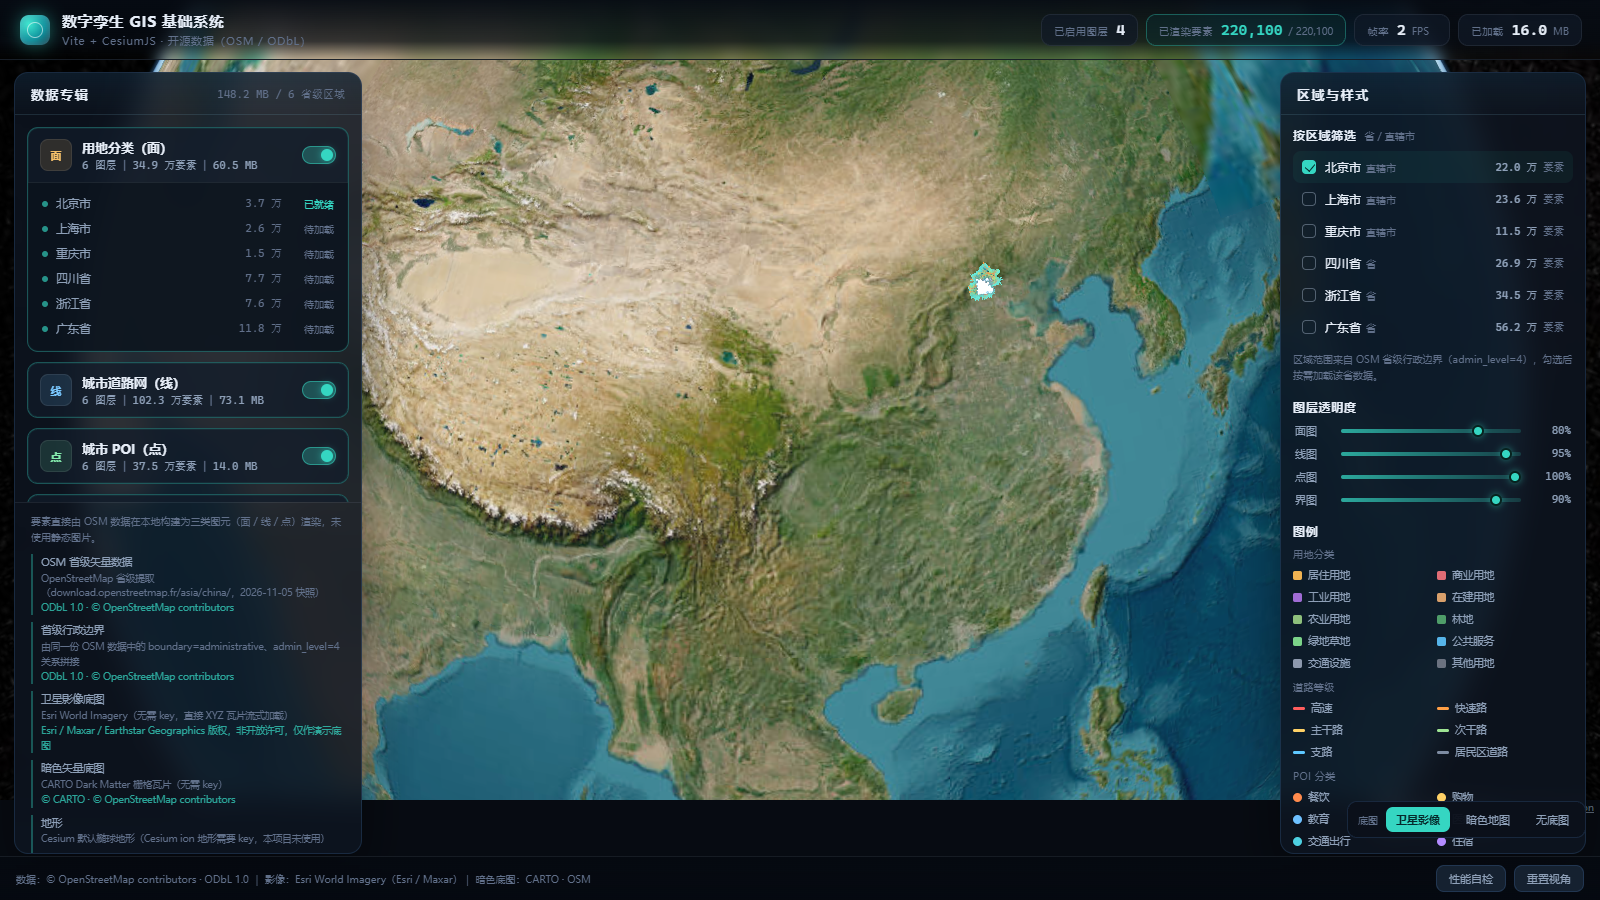
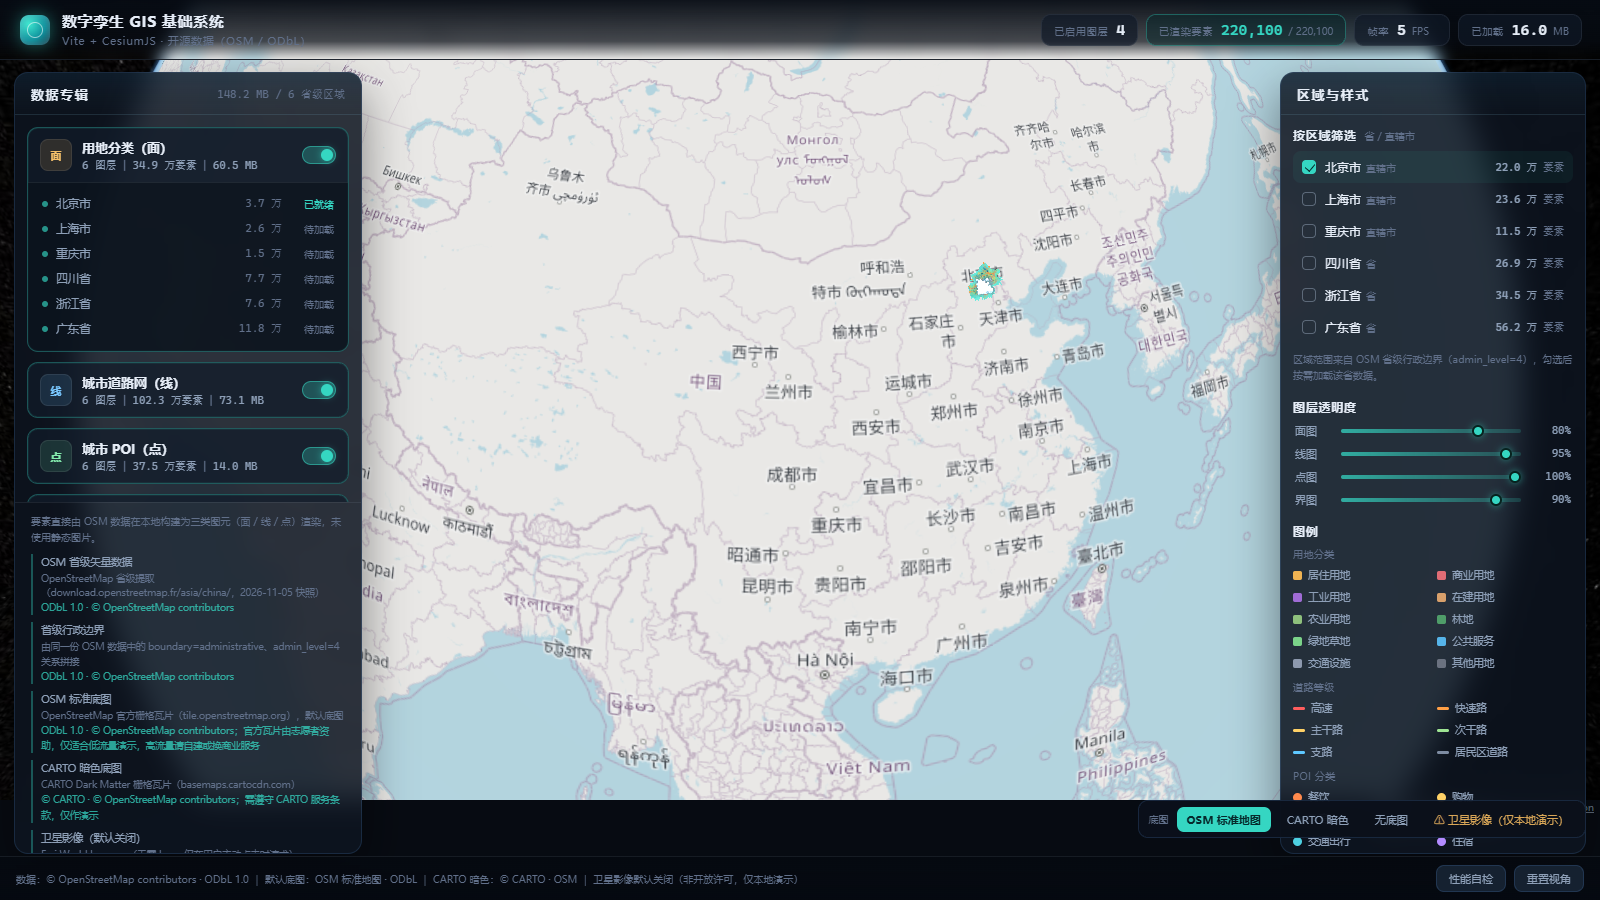
底图改为开放授权源并新增 GitHub Pages 部署
- 默认底图改为 OSM 官方栅格瓦片（ODbL，带署名）；CARTO 暗色可选
- Esri 卫星影像改为按需惰性加载，默认不创建、不发起请求，界面标注仅本地演示
- 新增 .github/workflows/pages.yml：CI 从 Release 拉数据后构建并发布到 Pages
- README 补充 Pages 部署说明、子路径 base 要点、Pages 体积限制对照

diff --git a/src/main.js b/src/main.js
@@ -22,16 +22,33 @@ function toast(msg, ms = 2200) {
 }
 
 // ---------------------------------------------------------------- 三维场景
-const esri = new Cesium.UrlTemplateImageryProvider({
-  url: 'https://server.arcgisonline.com/ArcGIS/rest/services/World_Imagery/MapServer/tile/{z}/{y}/{x}',
-  maximumLevel: 18,
-  credit: new Cesium.Credit('Esri, Maxar, Earthstar Geographics', false),
+// 默认底图：OpenStreetMap 官方栅格瓦片（ODbL，署名 © OpenStreetMap contributors）。
+// 官方瓦片由志愿者资助，仅适合低流量演示；高流量请自建瓦片或换用商业服务。
+const osm = new Cesium.UrlTemplateImageryProvider({
+  url: 'https://tile.openstreetmap.org/{z}/{x}/{y}.png',
+  maximumLevel: 19,
+  credit: new Cesium.Credit('© OpenStreetMap contributors', false),
 });
 const carto = new Cesium.UrlTemplateImageryProvider({
   url: 'https://basemaps.cartocdn.com/dark_all/{z}/{x}/{y}.png',
   maximumLevel: 19,
   credit: new Cesium.Credit('© CARTO · © OpenStreetMap contributors', false),
 });
+
+/**
+ * Esri World Imagery 不是开放许可，只在用户主动点击时按需创建，
+ * 公开部署默认从不发起请求。
+ */
+let esriLayer = null;
+function ensureEsriLayer() {
+  if (esriLayer) return esriLayer;
+  esriLayer = viewer.imageryLayers.addImageryProvider(new Cesium.UrlTemplateImageryProvider({
+    url: 'https://server.arcgisonline.com/ArcGIS/rest/services/World_Imagery/MapServer/tile/{z}/{y}/{x}',
+    maximumLevel: 18,
+    credit: new Cesium.Credit('Esri, Maxar, Earthstar Geographics', false),
+  }));
+  return esriLayer;
+}
 
 const viewer = new Cesium.Viewer('cesiumContainer', {
   baseLayer: false,
@@ -54,7 +71,7 @@ viewer.scene.globe.showGroundAtmosphere = true;
 viewer.scene.fog.enabled = false;
 viewer.scene.globe.enableLighting = false;
 
-const esriLayer = viewer.imageryLayers.addImageryProvider(esri);
+const osmLayer = viewer.imageryLayers.addImageryProvider(osm);
 const cartoLayer = viewer.imageryLayers.addImageryProvider(carto);
 cartoLayer.show = false;
 
@@ -440,8 +457,14 @@ document.querySelectorAll('#basemap-bar button').forEach((btn) => {
   btn.addEventListener('click', () => {
     document.querySelectorAll('#basemap-bar button').forEach((b) => b.classList.toggle('active', b === btn));
     const mode = btn.dataset.basemap;
-    esriLayer.show = mode === 'esri';
+    osmLayer.show = mode === 'osm';
     cartoLayer.show = mode === 'carto';
+    if (mode === 'esri') {
+      ensureEsriLayer().show = true;
+      toast('Esri 影像为非开放许可，仅限本地/个人演示，请勿用于公开部署');
+    } else if (esriLayer) {
+      esriLayer.show = false;
+    }
     viewer.scene.globe.baseColor = new Cesium.Color(0.035, 0.055, 0.08, 1);
     if (mode === 'none') {
       viewer.scene.globe.baseColor = new Cesium.Color(0.045, 0.075, 0.085, 1);

diff --git a/src/config.js b/src/config.js
@@ -81,14 +81,19 @@ export const SOURCES = [
     license: 'ODbL 1.0 · © OpenStreetMap contributors',
   },
   {
-    name: '卫星影像底图',
-    detail: 'Esri World Imagery（无需 key，直接 XYZ 瓦片流式加载）',
-    license: 'Esri / Maxar / Earthstar Geographics 版权，非开放许可，仅作演示底图',
+    name: 'OSM 标准底图',
+    detail: 'OpenStreetMap 官方栅格瓦片（tile.openstreetmap.org），默认底图',
+    license: 'ODbL 1.0 · © OpenStreetMap contributors；官方瓦片由志愿者资助，仅适合低流量演示，高流量请自建或换商业服务',
   },
   {
-    name: '暗色矢量底图',
-    detail: 'CARTO Dark Matter 栅格瓦片（无需 key）',
-    license: '© CARTO · © OpenStreetMap contributors',
+    name: 'CARTO 暗色底图',
+    detail: 'CARTO Dark Matter 栅格瓦片（basemaps.cartocdn.com）',
+    license: '© CARTO · © OpenStreetMap contributors；需遵守 CARTO 服务条款，仅作演示',
+  },
+  {
+    name: '卫星影像（默认关闭）',
+    detail: 'Esri World Imagery（无需 key，仅在用户主动点击时请求）',
+    license: 'Esri / Maxar / Earthstar Geographics 版权，非开放许可，仅限本地/个人演示，公开部署请勿启用',
   },
   {
     name: '地形',

diff --git a/index.html b/index.html
@@ -80,14 +80,15 @@
 
 <div id="basemap-bar">
   <span class="bar-label">底图</span>
-  <button data-basemap="esri" class="active">卫星影像</button>
-  <button data-basemap="carto">暗色地图</button>
+  <button data-basemap="osm" class="active">OSM 标准地图</button>
+  <button data-basemap="carto">CARTO 暗色</button>
   <button data-basemap="none">无底图</button>
+  <button data-basemap="esri" class="warn" title="Esri World Imagery 非开放许可，仅限本地/个人演示；公开部署请勿启用">卫星影像（仅本地演示）</button>
 </div>
 
 <footer id="statusbar">
   <div class="src">
-    数据：© OpenStreetMap contributors · ODbL 1.0 ｜ 影像：Esri World Imagery（Esri / Maxar）｜ 暗色底图：CARTO · OSM
+    数据：© OpenStreetMap contributors · ODbL 1.0 ｜ 默认底图：OSM 标准地图 · ODbL ｜ CARTO 暗色：© CARTO · OSM ｜ 卫星影像默认关闭（非开放许可，仅本地演示）
   </div>
   <div class="actions">
     <span id="load-state" class="load-state"></span>

diff --git a/src/styles.css b/src/styles.css
@@ -436,6 +436,9 @@ html, body {
 }
 #basemap-bar button:hover { color: var(--text); background: rgba(148, 163, 184, 0.1); }
 #basemap-bar button.active { color: #062a2c; background: var(--accent); font-weight: 600; }
+#basemap-bar button.warn { color: #d8a657; }
+#basemap-bar button.warn::before { content: '⚠ '; }
+#basemap-bar button.warn.active { color: #2b1c00; background: #d8a657; }
 
 /* 底部状态栏 */
 #statusbar {
